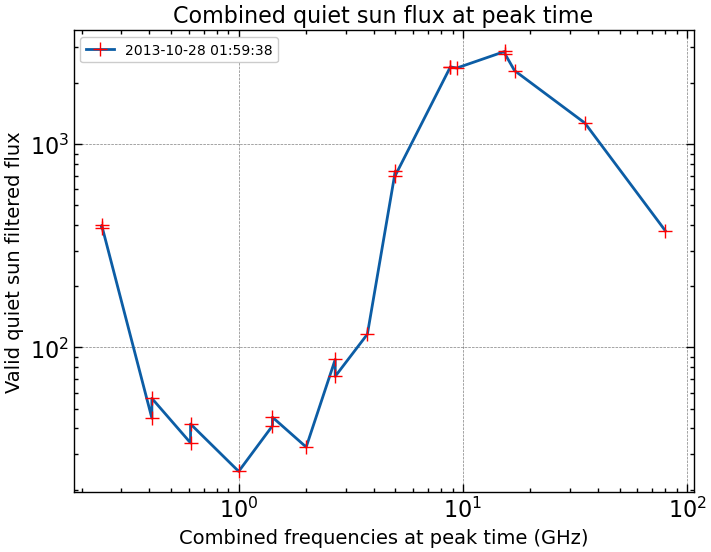
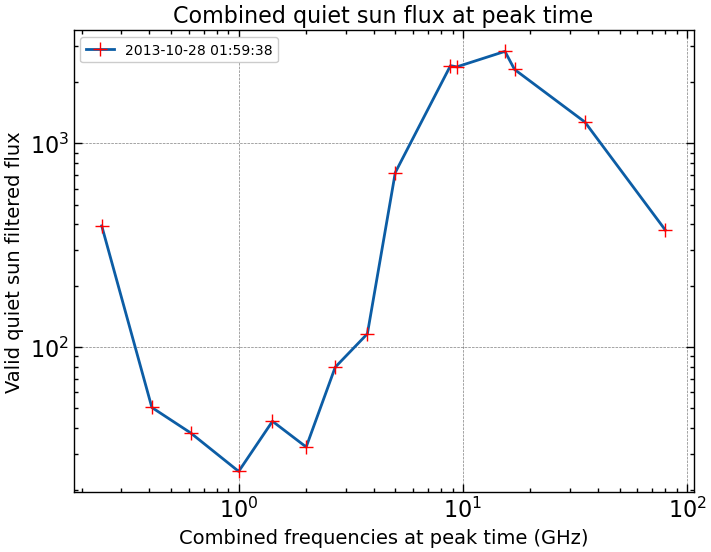
Averaged combined plotter update

diff --git a/data_fitter.py b/data_fitter.py
@@ -11,15 +11,31 @@ import numpy as np
 from scipy.optimize import curve_fit
 from scipy.stats import chi2
 
+# %% Fit model definition
+# Gyro model definition
+def gyro_model(x_val, param_a_cap, param_b_cap, param_a, param_b):
+    # Return gyro model
+    return (
+        param_a_cap
+        * x_val**param_a
+        * (1 - np.exp(-param_b_cap * x_val ** (-param_b)))
+    )
+
+
+# Plas model definition
+def plas_model(x_val, param_c, param_k):
+    # Return plas model
+    return (param_c * x_val**param_k)
+
 # %% Gyro fitter
 # Gyro fitter function
-def gyro_fitter(data_x, data_y):
+def gyro_fitter(data_freq, data_flux):
     """
     Parameters
     ----------
-    data_x : array
+    data_freq : array
         Combined freq data array.
-    data_y : array
+    data_flux : array
         Combined flux data array.
 
     Returns
@@ -33,14 +49,14 @@ def gyro_fitter(data_x, data_y):
     chi_p_val : float
         The p-value from the chi-sqaured test.
     """
-    # Gyro model definition
-    def gyro_model(x_val, param_a_cap, param_b_cap, param_a, param_b):
-        # Return gyro model
-        return (
-            param_a_cap
-            * x_val**param_a
-            * (1 - np.exp(-param_b_cap * x_val ** (-param_b)))
-        )
+    # Gyro fit data filter
+    # Fliter index generation
+    idx_filter = data_freq > 2
+    # Generate filtered data
+    data_x, data_y = (
+        data_freq[idx_filter],
+        data_flux[idx_filter],
+    )
 
     # Iniitial parameter guess
     param_guess = [1, 1, 1, 1]  # param_A, param_B, param_a, param_b
@@ -105,13 +121,17 @@ def plas_fitter(data_x, data_y):
     chi_p_val : float
         The p-value from the chi-sqaured test.
     """
-    # Gyro model definition
-    def plas_model(x_val, param_c, param_k):
-        # Return gyro model
-        return (param_c * x_val**param_k)
+    # Plas fit data filter
+    # Fliter index generation
+    idx_filter = data_x <= 2
+    # Generate filtered data
+    data_x, data_y = (
+        data_x[idx_filter],
+        data_y[idx_filter],
+    )
 
     # Iniitial parameter guess
-    param_guess = [1, 1]  # param_A, param_B, param_a, param_b
+    param_guess = [1, 1]  # param_c, param_k
 
     # Curve fit results
     params, cov = curve_fit(plas_model, data_x, data_y, p0=param_guess)

diff --git a/data_handler.py b/data_handler.py
@@ -185,12 +185,19 @@ def collector(arg_time, arg_freq, arg_flux):
         # Import peak identifier result
         idx_norp, idx_apl, idx_phf = peak_time(arg_time)
 
+        # Pick peak time flux array out
+        data_norp_flux_peak, data_apl_flux_peak, data_phf_flux_peak = (
+            data_norp_flux_peak[idx_norp],
+            data_apl_flux_peak[idx_apl],
+            data_phf_flux_peak[idx_phf],
+        )
+
         # Concatenate freq array
         data_flux = tuple(
             [
-                data_norp_flux_peak[idx_norp],
-                data_apl_flux_peak[idx_apl],
-                data_phf_flux_peak[idx_phf],
+                data_norp_flux_peak,
+                data_apl_flux_peak,
+                data_phf_flux_peak,
             ]
         )
         data_flux_combined = np.concatenate(data_flux)
@@ -199,18 +206,25 @@ def collector(arg_time, arg_freq, arg_flux):
         return data_flux_combined
 
     # Peak time freq, flux array generator
-    data_freq_combined, data_flux_combined = peak_freq(arg_freq), peak_flux(
-        arg_flux
-    )
+    data_freq_combined, data_flux_combined = peak_freq(arg_freq), peak_flux(arg_flux)
 
     # Array sorter
     # Get numpy index sort array
     idx_sort = np.argsort(data_freq_combined)
     # Sort array with index
-    data_freq_final, data_flux_final = (
+    data_freq_sorted, data_flux_sorted = (
         data_freq_combined[idx_sort],
         data_flux_combined[idx_sort],
     )
+
+    # Array uniqe value filter
+    # Get the unique freq values array
+    data_freq_final = np.unique(data_freq_sorted)
+
+    # Calculate the mean y values for each unique x value
+    data_flux_final = np.zeros(len(data_freq_final))
+    for i, xval in enumerate(data_freq_final):
+        data_flux_final[i] = np.mean(data_flux_sorted[data_freq_sorted == xval])
 
     # Return combined peak time flux array
     return data_freq_final, data_flux_final

diff --git a/main.py b/main.py
@@ -71,7 +71,19 @@ arg_time, arg_freq, arg_flux = (
 peak_arg = (arg_time, arg_freq, arg_flux)
 
 # %% Peak time flux array repo
+# Assign peak time combined freq and flux array
 peak_time_freq, peak_time_flux = collector(*peak_arg)
+
+# %% Curve fitter
+# Generate combined fit results
+results_gyro, results_plas = (
+    gyro_fitter(peak_time_freq, peak_time_flux),
+    plas_fitter(peak_time_freq, peak_time_flux),
+)
+
+# %% Fit parameter cache
+# General combined fit parameter cache
+gyro_param, plas_param = results_gyro[0], results_plas[0]
 
 # %% Plotter argument assignment
 # Plot arguments assignment
@@ -101,8 +113,12 @@ plt_arg1, plt_arg2, plt_arg3, plt_arg4 = (
         phf_freq,
         norp_peak_time,
     ),
-    # Peak time plotter arguments
-    (peak_time_freq, peak_time_flux, norp_peak_time),
+    # Peak time combined plotter arguments
+    (
+        peak_time_freq, 
+        peak_time_flux, 
+        norp_peak_time,
+    ),
 )
 
 # %% Plot generator argument assignment
@@ -111,10 +127,3 @@ plt_arg = (plt_arg1, plt_arg2, plt_arg3, plt_arg4)
 
 # %% Plot generation
 plot_generator(plt_arg)
-
-# %% Curve fitter
-# Generate fit results
-results_gyro, results_plas = (
-    gyro_fitter(peak_time_freq, peak_time_flux),
-    plas_fitter(peak_time_freq, peak_time_flux),
-)

diff --git a/data_plotter.py b/data_plotter.py
@@ -10,6 +10,8 @@ Created on Wed Mar 15 2023
 import numpy as np
 import matplotlib.pyplot as plt
 import scienceplots
+# Custom module import
+from data_fitter import gyro_model, plas_model
 
 # %%  Plot style config
 # Plot style configuration
